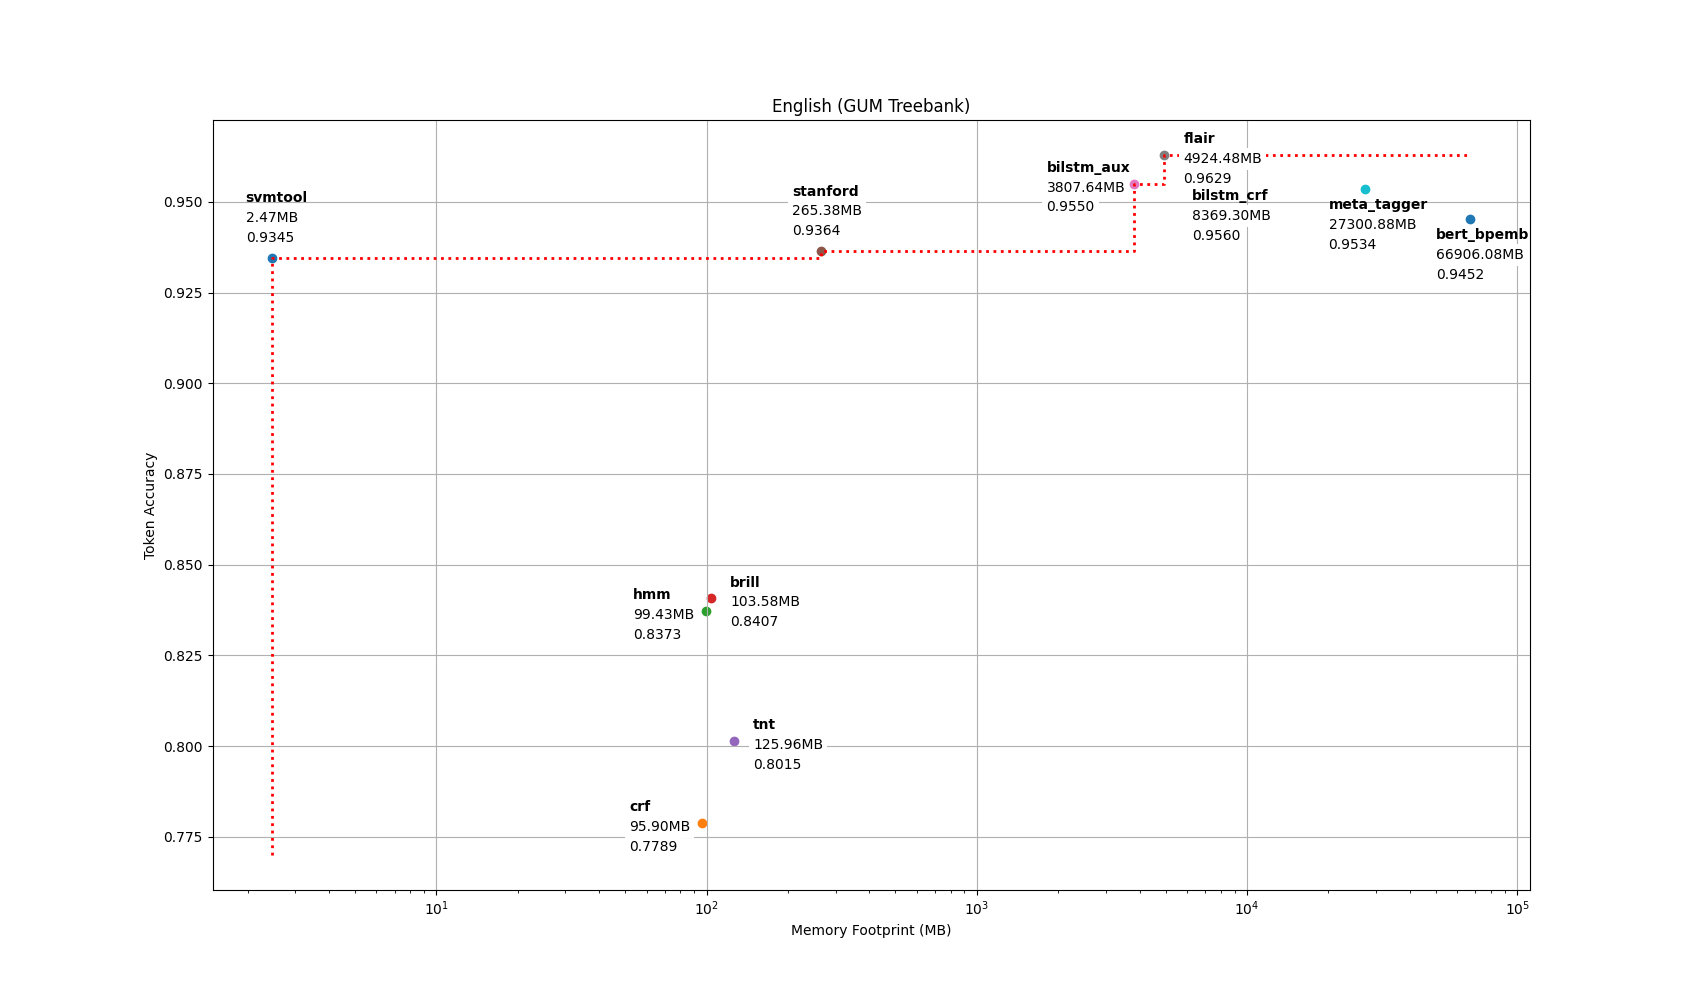
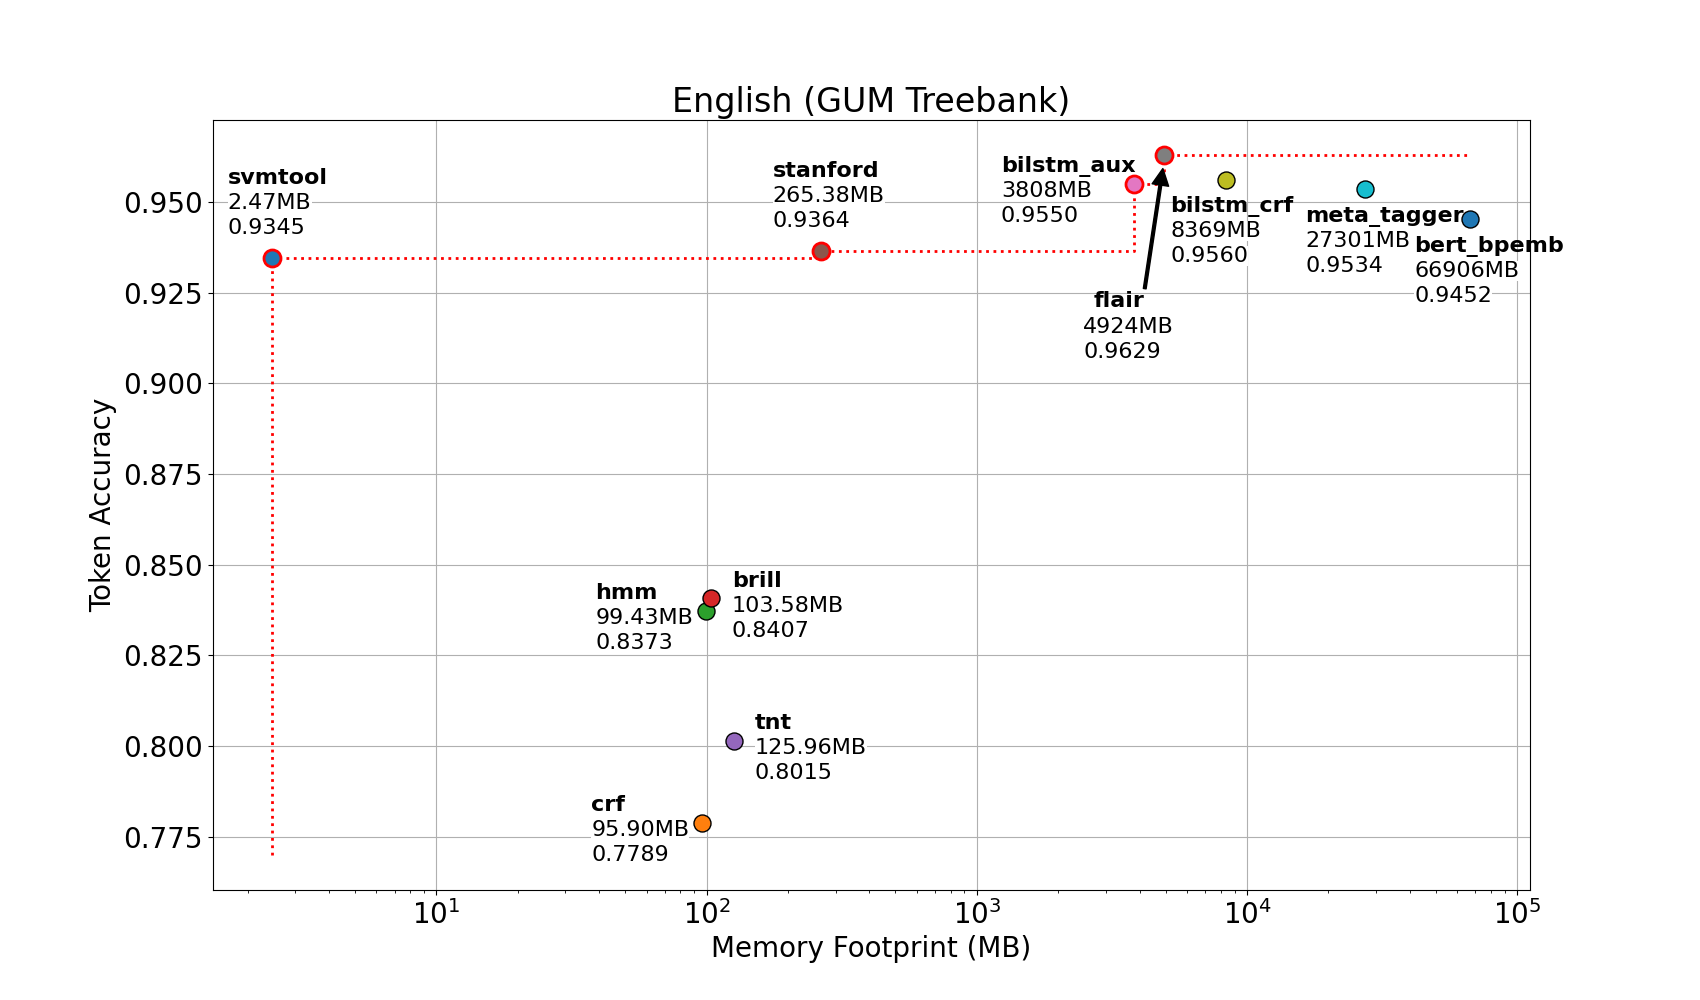
Plots are starting to look nice!

diff --git a/src/plotting.py b/src/plotting.py
@@ -3,19 +3,21 @@ from os import path
 from sys import argv
 import argparse
 import math
-import matplotlib
-matplotlib.use("TkAgg")
 import matplotlib.pyplot as plt
+font = {'size': 20}
+
+plt.rc('font', **font)
 from util.data_archives import LANGS_FULL, LANGS_ISO, get_default_treebank
 
 SOUTH = 0
 EAST = 1
 NORTH = 2
 WEST = 3
+ARROW_SOUTH = 4
 POS_OFFSETS = {
     "en_token_memory": [
         NORTH, WEST, WEST, EAST, EAST, NORTH,
-        WEST, EAST, SOUTH, SOUTH, SOUTH
+        WEST, ARROW_SOUTH, SOUTH, SOUTH, SOUTH
     ],
     "en_token_code": [
         EAST, NORTH, EAST, EAST, EAST, SOUTH,
@@ -27,7 +29,7 @@ POS_OFFSETS = {
     ],
     "en_token_compressed": [
         NORTH, EAST, SOUTH, EAST, WEST, SOUTH,
-        WEST, NORTH, SOUTH, WEST, SOUTH
+        WEST, SOUTH, SOUTH, EAST, SOUTH
     ]
 }
 
@@ -66,7 +68,20 @@ def load_results():
 
     return mapped_data
 
-def plot_data(data, axis, directions, acc_metric="token", size_metric="memory"):
+def sort_data_by_size(data, acc_metric, size_metric):
+    sorted_data = []
+    for model in data:
+        model_data = data[model]
+        accuracy = float(model_data[acc_metric])
+        footprint = int(model_data[size_metric]) / 1000
+        sorted_data.append((model, accuracy, footprint))
+
+    return sorted(sorted_data, key=lambda x: x[2])
+
+def plot_data(
+        sorted_data, models_on_skyline, axis, directions,
+        acc_metric="token", size_metric="memory"
+):
     legend_text = {
         "token": "Token Accuracy", "sentence": "Sentence Accuracy",
         "memory": "Memory Footprint", "code": "Code Size",
@@ -75,37 +90,39 @@ def plot_data(data, axis, directions, acc_metric="token", size_metric="memory"):
     axis.set_xlabel(f"{legend_text[size_metric]} (MB)")
     axis.set_ylabel(legend_text[acc_metric])
 
-    sorted_data = []
-    for model in data:
-        model_data = data[model]
-        accuracy = float(model_data[acc_metric])
-        footprint = int(model_data[size_metric]) / 1000
-        sorted_data.append((model, accuracy, footprint))
-
-    sorted_data.sort(key=lambda x: x[2])
-
     for model, accuracy, footprint in sorted_data:
-        axis.scatter(footprint, accuracy, label=model)
+        edge_color, line_width = (("red", 2) if model in models_on_skyline
+                                  else ("black", 1))
+        axis.scatter(
+            footprint, accuracy, label=model, s=150, zorder=5,
+            edgecolors=edge_color, linewidths=line_width
+        )
 
     for index, (model, accuracy, footprint) in enumerate(sorted_data):
         x, y = axis.transData.transform((footprint, accuracy))
 
         text_1 = f"{model}"
-        text_2 = f"{footprint:.2f}MB"
+        if footprint >= 1000:
+            text_2 = f"{footprint:.0f}MB"
+        else:
+            text_2 = f"{footprint:.2f}MB"
+
         text_3 = f"{accuracy:.4f}"
 
         # Define offsets.
         text_max = max(len(text_1), len(text_2), len(text_3))
-        offset_x = (12 + int(text_max))
-        y_gap = 10
-        offset_y_1 = 6
-        offset_y_2 = offset_y_1 + y_gap
+        offset_x = (15 + int(text_max) * 1.4)
+        y_gap = 12
+        offset_y_2 = 21
+        offset_y_1 = offset_y_2 - y_gap
         offset_y_3 = offset_y_2 + y_gap
+        xy_text = (0, 0)
+        arrow_props = None
 
         # Center x and y on the data points (roughly).
         x = x - offset_x
         x += 8
-        y += 2
+        y += 2.5
         y_1 = y - offset_y_1
         y_2 = y - offset_y_2
         y_3 = y - offset_y_3
@@ -119,11 +136,11 @@ def plot_data(data, axis, directions, acc_metric="token", size_metric="memory"):
             y_1 += y_gap
             y_2 += y_gap
             y_3 += y_gap
-        elif directions[index] == NORTH:
+        elif directions[index] == NORTH: # Write text above data points.
             y_1 += offset_y_2 * 2
             y_2 += offset_y_2 * 2
             y_3 += offset_y_2 * 2
-        elif directions[index] == EAST:
+        elif directions[index] == EAST: # Write text to the right of data points.
             x += offset_x
             y_1 += y_gap
             y_2 += y_gap
@@ -133,13 +150,37 @@ def plot_data(data, axis, directions, acc_metric="token", size_metric="memory"):
         x_2, y_2 = axis.transData.inverted().transform((x, y_2))
         x_3, y_3 = axis.transData.inverted().transform((x, y_3))
 
-        bbox = dict(boxstyle="square", fc="1", linewidth=0)
+        if directions[index] == ARROW_SOUTH:
+            # Our text wont fit. Draw text elsewhere and draw an arrow pointing to it.
+            arrow_props = {"facecolor": "black", "width": 2}
+            xy_text = (-50, -100)
+            tilt_x = axis.transData.inverted().transform((x + 15, 0))[0]
+            x_1 = tilt_x
+            shift_y_2 = axis.transData.inverted().transform((0, y-100+y_gap))[1]
+            shift_y_3 = axis.transData.inverted().transform((0, y-100))[1]
+            shift_x = axis.transData.inverted().transform((x - 15, 0))[0]
+            x_2 = shift_x
+            x_3 = shift_x
+            y_2 = shift_y_2
+            y_3 = shift_y_3
 
-        axis.annotate(text_1, (x_1, y_1), xytext=(0, 0), xycoords="data", textcoords="offset points", fontweight=800)
-        axis.annotate(text_2, (x_2, y_2), xytext=(0, 0), xycoords="data", textcoords="offset points", bbox=bbox)
-        axis.annotate(text_3, (x_3, y_3), xytext=(0, 0), xycoords="data", textcoords="offset points", bbox=bbox)
+        bbox = dict(boxstyle="square", fc="1", linewidth=0, pad=0)
 
-    return sorted_data
+        font_size = 16
+
+        axis.annotate(
+            text_2, (x_2, y_2), xytext=(0, 0), xycoords="data",
+            textcoords="offset points", fontsize=font_size, bbox=bbox
+        )
+        axis.annotate(
+            text_3, (x_3, y_3), xytext=(0, 0), xycoords="data",
+            textcoords="offset points", fontsize=font_size, bbox=bbox
+        )
+        axis.annotate(
+            text_1, (x_1, y_1), xytext=xy_text, xycoords="data",
+            textcoords="offset points", fontsize=font_size, fontweight=800,
+            arrowprops=arrow_props
+        )
 
 def plot_pareto(data, axis):
     points_x = []
@@ -147,11 +188,13 @@ def plot_pareto(data, axis):
     min_y = (math.floor(min_y * 100.0)) / 100.0
     points_y = [min_y]
     highest_acc = 0
-    for _, accuracy, footprint in data:
+    models_on_skyline = set()
+    for model, accuracy, footprint in data:
         y = highest_acc
         if accuracy > highest_acc:
             highest_acc = accuracy
             y = accuracy
+            models_on_skyline.add(model)
         points_x.extend([footprint] * 2)
         points_y.extend([y] * 2)
 
@@ -159,6 +202,7 @@ def plot_pareto(data, axis):
 
     axis.grid(b=True, which="major", axis="both")
     axis.plot(points_x, points_y, linestyle=":", linewidth=2, c="red")
+    return models_on_skyline
 
 def plot_results(language, acc_metric, size_metric, save_to_file):
     results = load_results()
@@ -168,8 +212,9 @@ def plot_results(language, acc_metric, size_metric, save_to_file):
     ax.set_xscale("log")
 
     directions = POS_OFFSETS[f"{language}_{acc_metric}_{size_metric}"]
-    sorted_data = plot_data(results[language], ax, directions, acc_metric, size_metric)
-    plot_pareto(sorted_data, ax)
+    sorted_data = sort_data_by_size(results[language], acc_metric, size_metric)
+    models_on_skyline = plot_pareto(sorted_data, ax)
+    plot_data(sorted_data, models_on_skyline, ax, directions, acc_metric, size_metric)
 
     manager = plt.get_current_fig_manager()
     w, h = manager.window.maxsize()
@@ -181,6 +226,7 @@ def plot_results(language, acc_metric, size_metric, save_to_file):
     if save_to_file:
         filename = f"plots/{language}_{treebank}-{acc_metric}_{size_metric}.png"
         plt.savefig(filename)
+        print(f"Saved image of plot to {filename}.")
     else:
         plt.show()
     

diff --git a/src/taggers/flair_pos.py b/src/taggers/flair_pos.py
@@ -112,7 +112,9 @@ class Flair(ImportedTagger):
     def __init__(self, args, model_name, load_model=False):
         super().__init__(args, model_name, load_model)
         (data_folder, train_file, test_file, dev_file) = self.format_data("train")
-        self.corpus = UniversalDependenciesCorpus(data_folder, train_file, test_file, dev_file)
+        self.corpus = UniversalDependenciesCorpus(
+            data_folder, train_file, test_file, dev_file, split_multiwords=False
+        )
         dictionary = self.corpus.make_tag_dictionary("upos")
         if not load_model:
             embeddings = self.get_embeddings()
